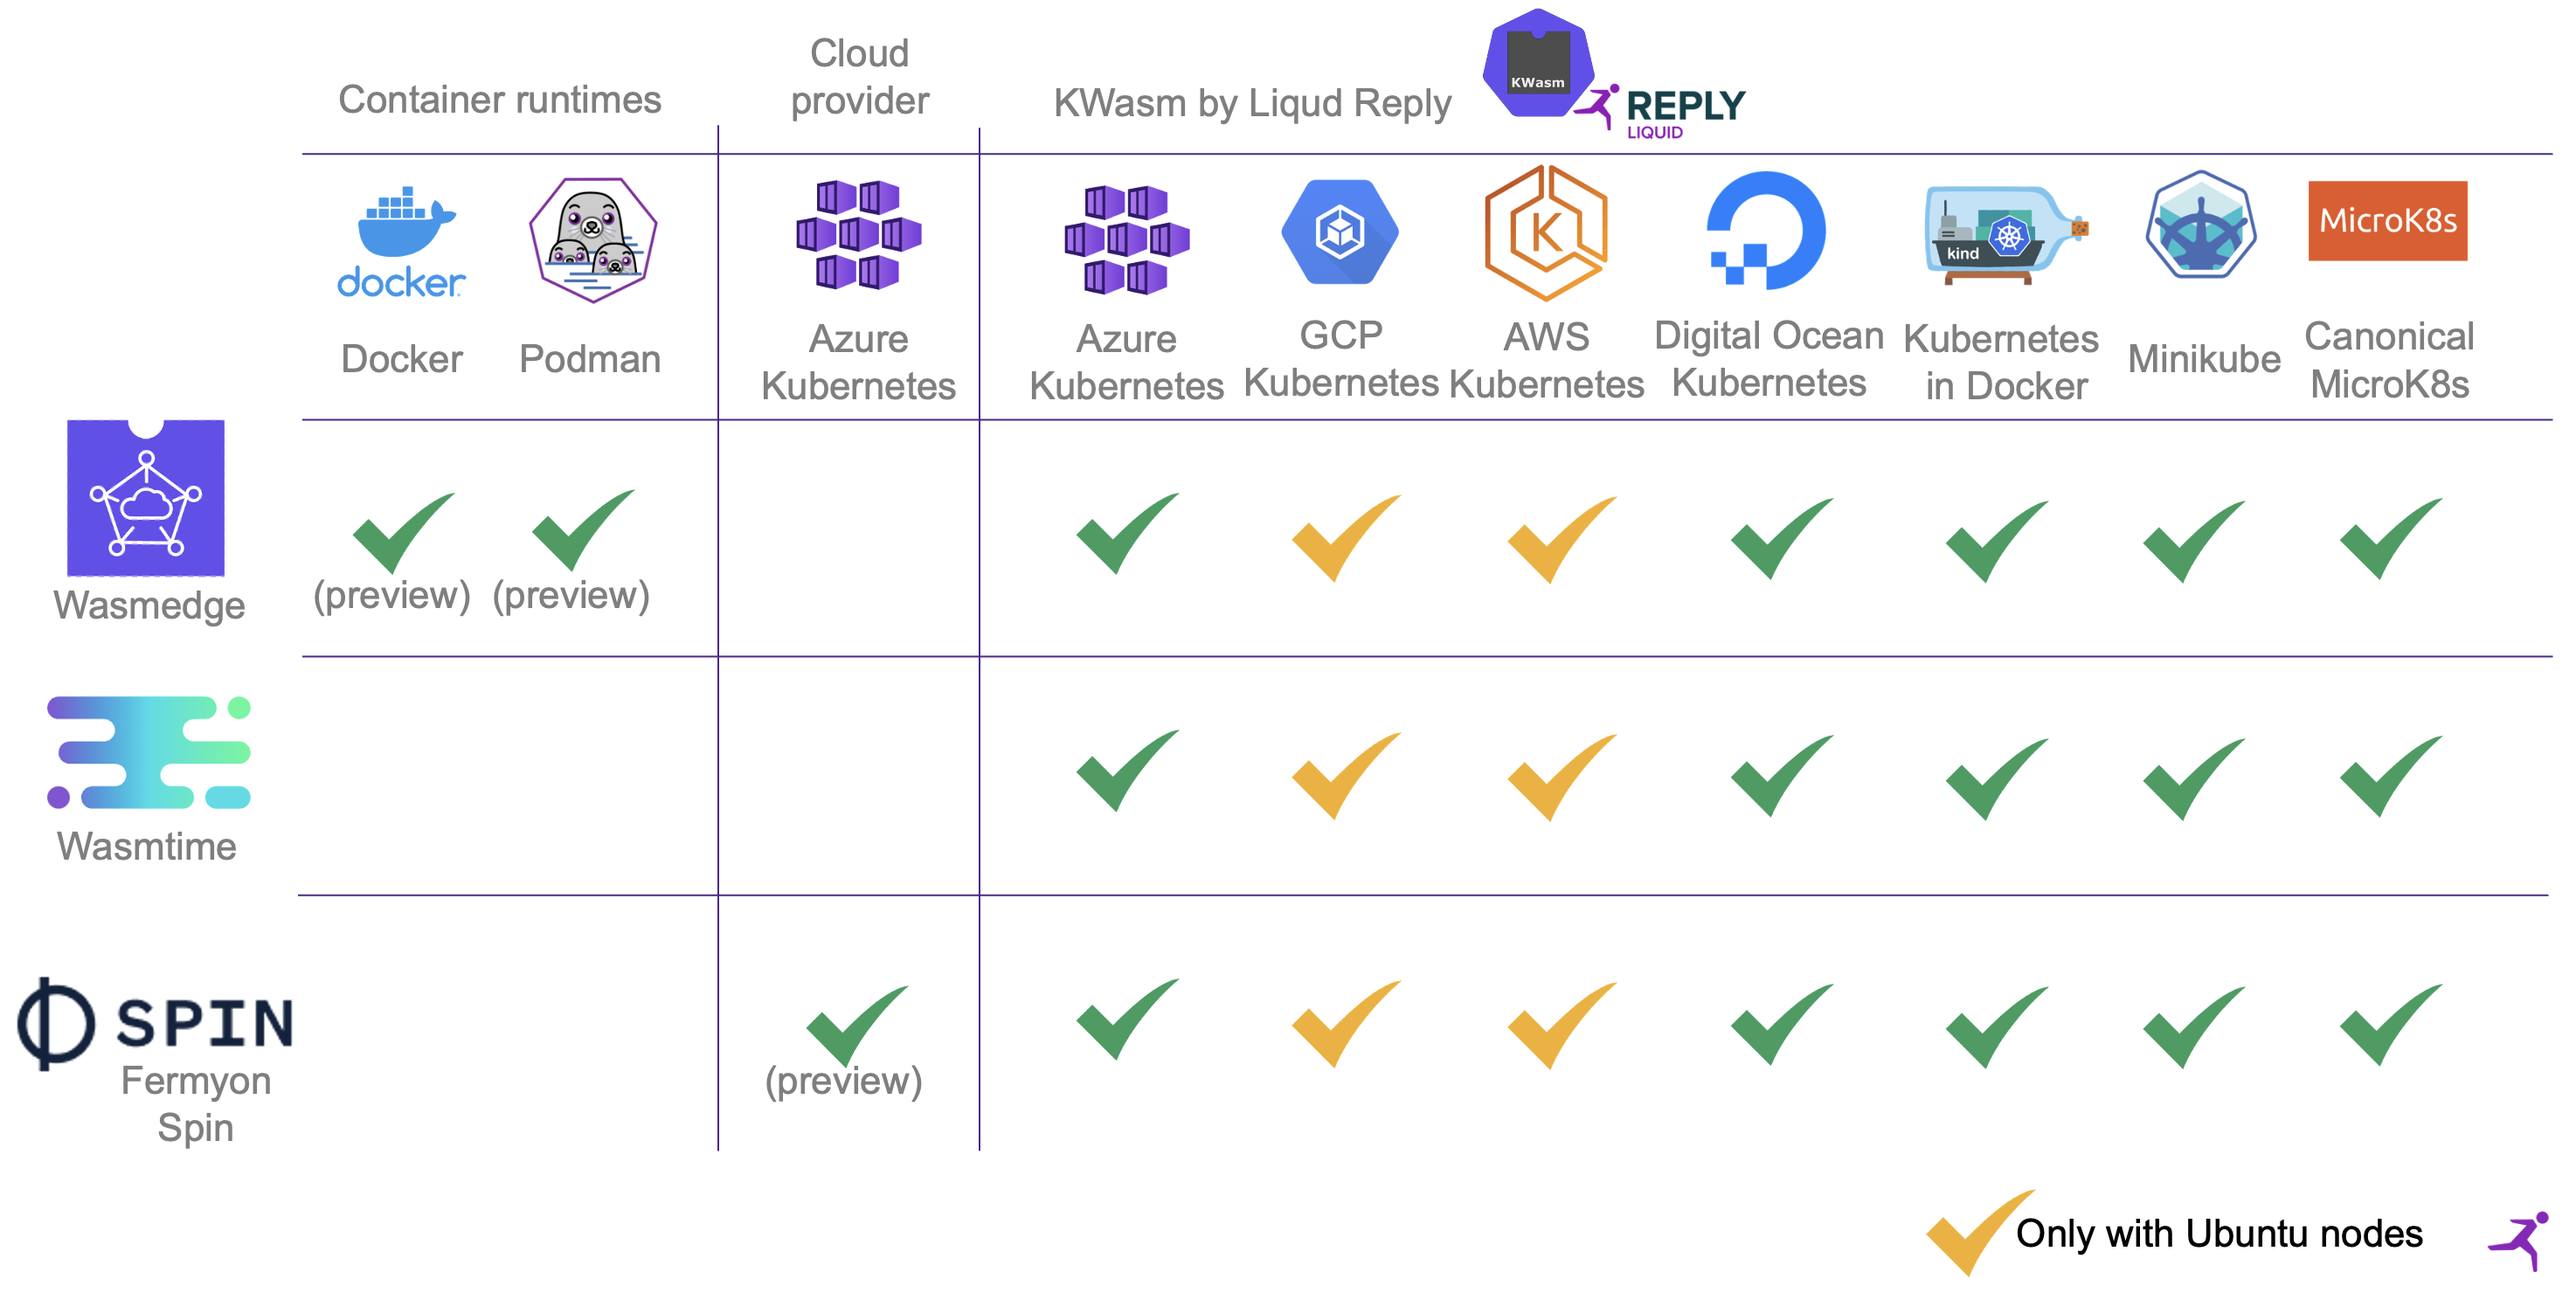
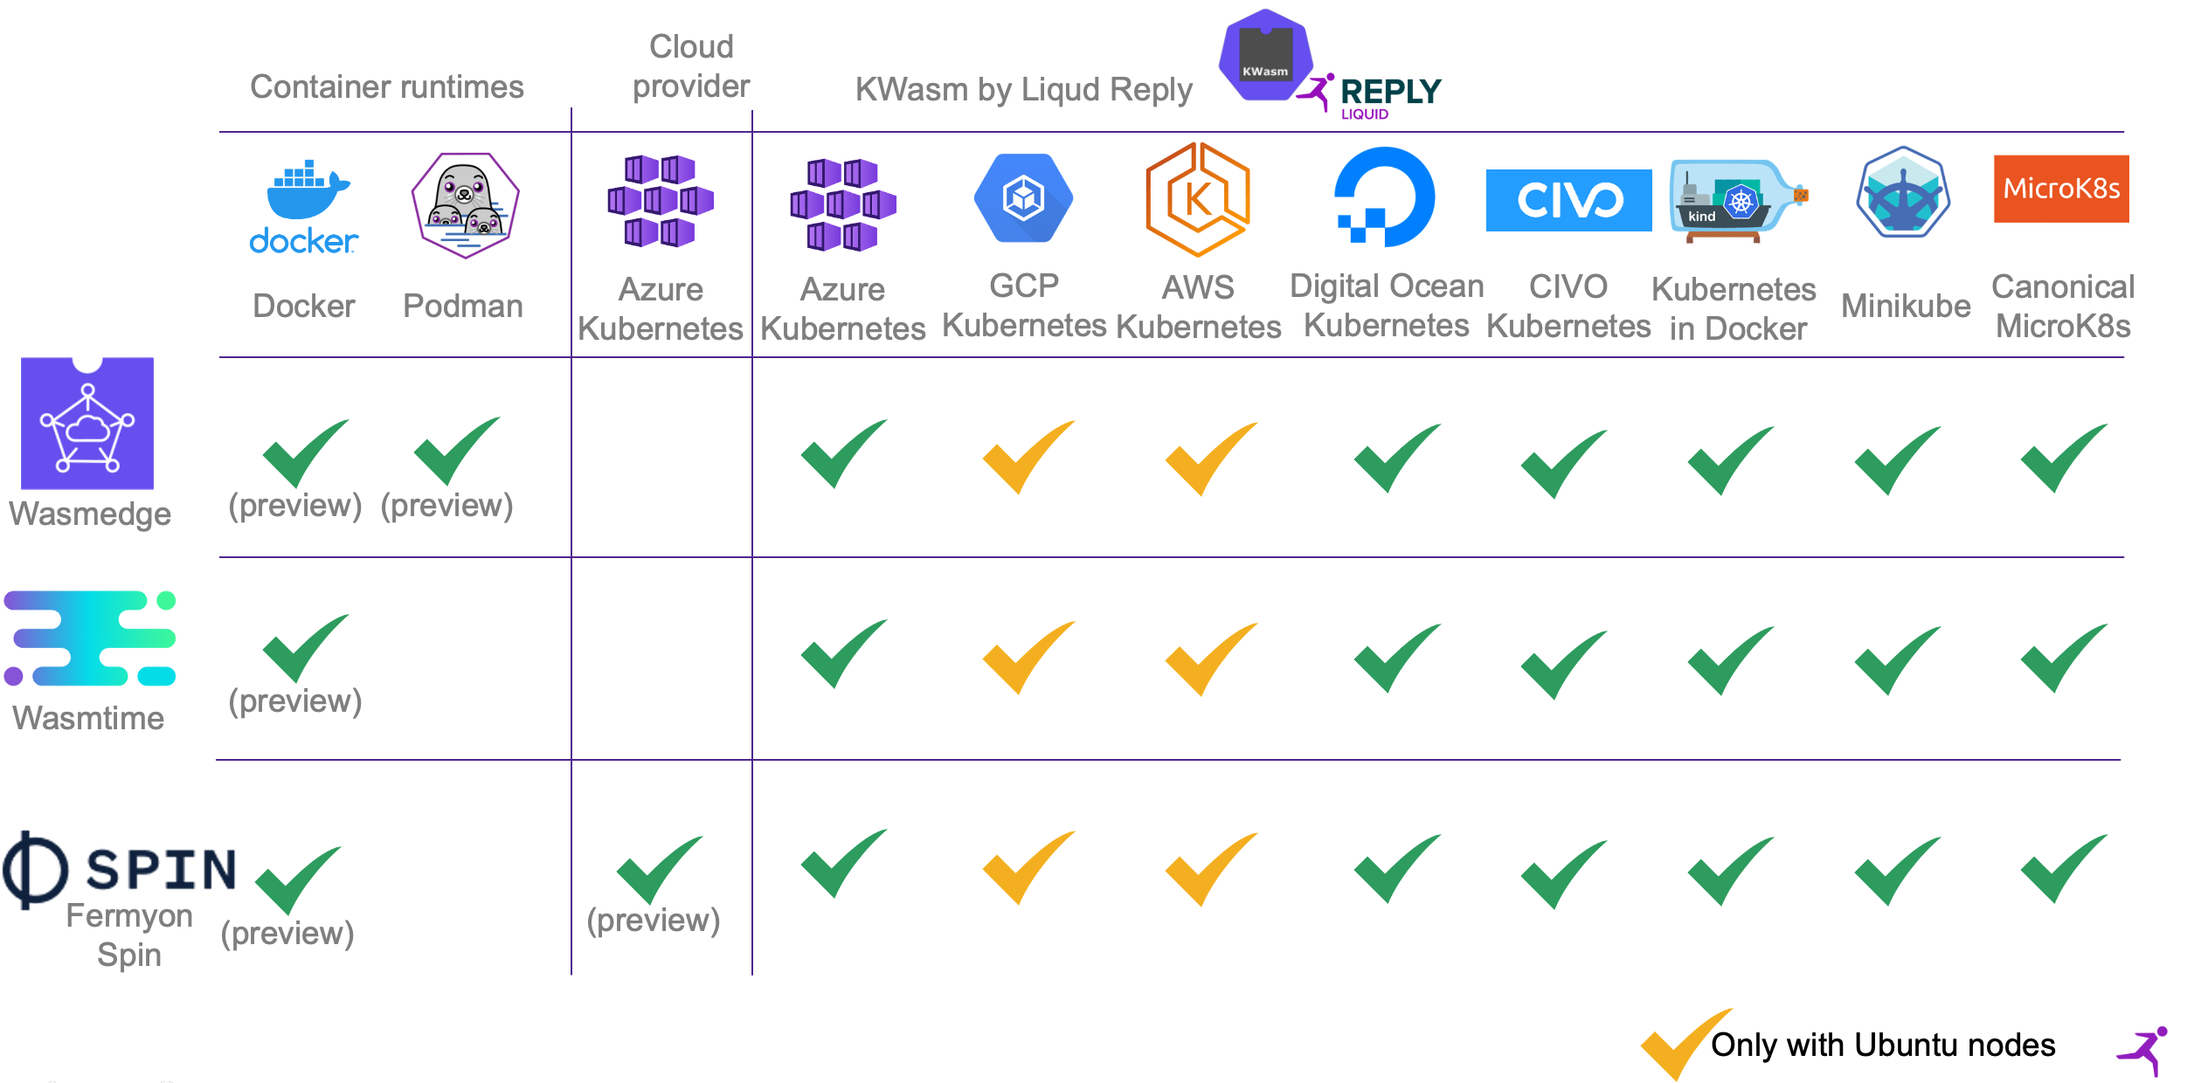
add civo

diff --git a/docs/quickstart.md b/docs/quickstart.md
@@ -51,24 +51,26 @@ The following configuration include the instruction to create a fresh cluster in
 
 === "AWS EKS"
     ```bash
-    eksctl create cluster --name wasm-eks --node-type=t3.medium --without-nodegroup --version=1.23
+    eksctl create cluster --name kwasm --node-type=t3.medium --without-nodegroup --version=1.24
 
     # ATENTION, you need to choose the right region and ami
     # Look up the appropriate ami for your region: https://cloud-images.ubuntu.com/locator/ec2/
     echo 'apiVersion: eksctl.io/v1alpha5
     kind: ClusterConfig
     metadata:
-      name: wasm-eks
+      name: kwasm
       region: us-west-2
     managedNodeGroups:
-      - name: ng-wasm-eks
-        ami: ami-0809c110f957a5eb8
+      - name: ng-kwasm
+        ami: ami-0d429719359d44d16
         instanceType: t3.medium
         minSize: 1
         maxSize: 2
         overrideBootstrapCommand: |
           #!/bin/bash
-          /etc/eks/bootstrap.sh wasm-eks --container-runtime containerd' | eksctl create nodegroup -f -
+          /etc/eks/bootstrap.sh kwasm --container-runtime containerd' | eksctl create nodegroup -f -
+    # add cluster to kubeconfig
+    eksctl utils write-kubeconfig --cluster=kwasm  
     ```
 
 === "GCP GKE"
@@ -78,6 +80,12 @@ The following configuration include the instruction to create a fresh cluster in
 === "DO Kubernetes"
     ```bash
     doctl kubernetes cluster create kwasm
+    ```
+
+=== "CIVO"
+    ```bash
+    civo kubernetes create kwasm 
+    civo kubernetes config kwasm --save
     ```
 
 ## WASM Runtime configuration

diff --git a/docs/index.md b/docs/index.md
@@ -9,6 +9,10 @@ WebAssembly images.
 
 The operator uses the [kwasm-node-installer](https://github.com/KWasm/kwasm-node-installer) project to modify the underlying Kubernetes nodes.
 
+## How it works
+Nigel Poulton describes in his [blog article](https://nigelpoulton.com/webassembly-and-containerd-how-it-works/) in detail what is needed to use containerd Wasm shims with Kubernetes.
+
+
 ## Supported Kubernetes Distributions
 
 ![Support](img/support_matrix.png)
